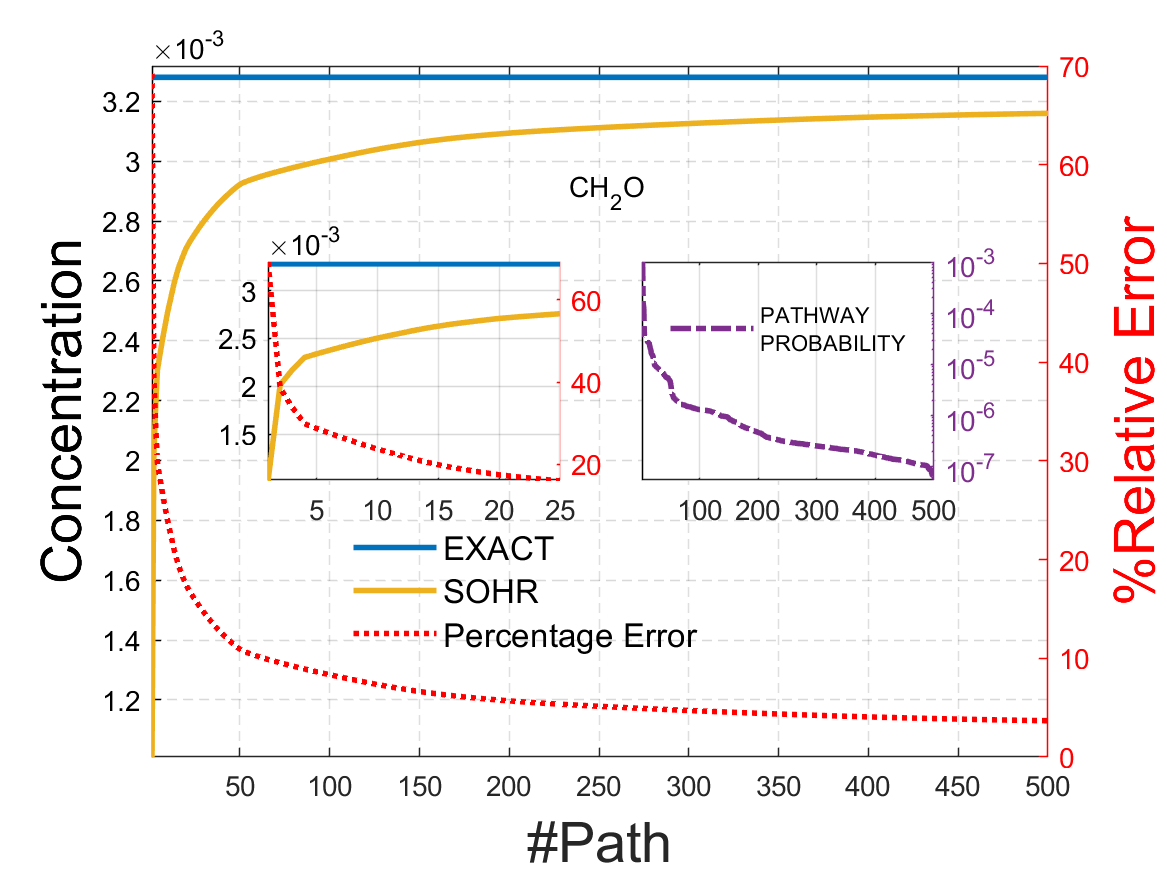
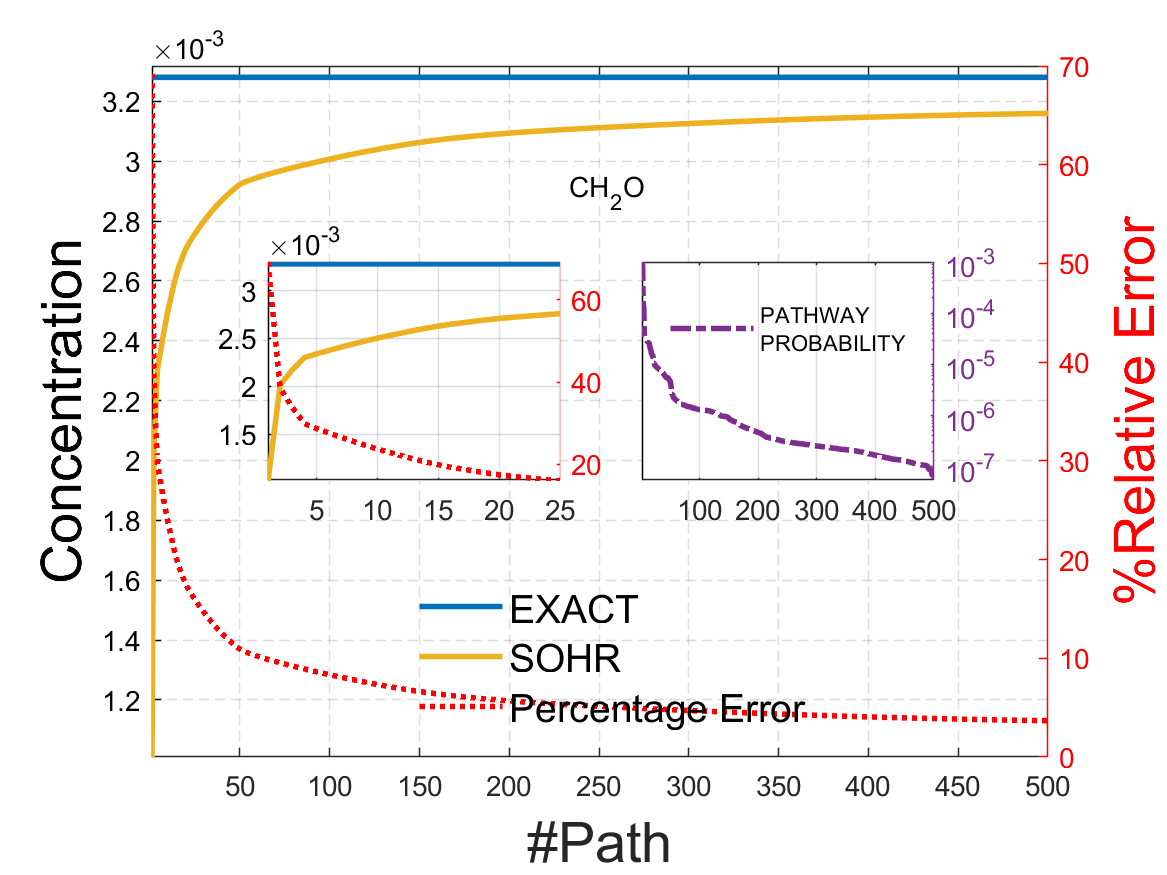
minor

Changed region(s): [[0.3085, 0.6171, 0.7095, 0.8331]]

diff --git a/theory/misc/trajectory_convergence/trajectory_convergence_1_2.m b/theory/misc/trajectory_convergence/trajectory_convergence_1_2.m
@@ -97,9 +97,9 @@ ylabel('%Relative Error', 'FontSize', 20);
 grid on;
 xlim([1, end_idx1]);
 leg_h = legend([p1; p2; p3],'EXACT','SOHR', 'Percentage Error');
-set(leg_h, 'FontSize', 12, 'Box', 'off');
+set(leg_h, 'FontSize', 14, 'Box', 'off');
 % [left, bottom, weight, height]
-set(leg_h, 'Position', [0.2, 0.275, 0.5, 0.1])
+set(leg_h, 'Position', [0.275, 0.2, 0.5, 0.1])
 
 a_x = gca;
 t_x = a_x.XLim(1) + 0.465*(a_x.XLim(2) - a_x.XLim(1));

diff --git a/theory/misc/trajectory_convergence/trajectory_convergence_2_2.m b/theory/misc/trajectory_convergence/trajectory_convergence_2_2.m
@@ -97,9 +97,9 @@ ylabel('%Relative Error', 'FontSize', 20);
 grid on;
 xlim([1, end_idx1]);
 leg_h = legend([p1; p2; p3],'EXACT','SOHR', 'Percentage Error');
-set(leg_h, 'FontSize', 12, 'Box', 'off');
+set(leg_h, 'FontSize', 14, 'Box', 'off');
 % [left, bottom, weight, height]
-set(leg_h, 'Position', [0.2, 0.275, 0.5, 0.1])
+set(leg_h, 'Position', [0.275, 0.2, 0.5, 0.1])
 
 a_x = gca;
 t_x = a_x.XLim(1) + 0.465*(a_x.XLim(2) - a_x.XLim(1));

diff --git a/theory/misc/trajectory_convergence/trajectory_convergence_3_2.m b/theory/misc/trajectory_convergence/trajectory_convergence_3_2.m
@@ -90,9 +90,9 @@ ylabel('%Relative Error', 'FontSize', 20);
 grid on;
 xlim([1, end_idx1]);
 leg_h = legend([p1; p2; p3],'EXACT','SOHR', 'Percentage Error');
-set(leg_h, 'FontSize', 12, 'Box', 'off');
+set(leg_h, 'FontSize', 14, 'Box', 'off');
 % [left, bottom, weight, height]
-set(leg_h, 'Position', [0.2, 0.275, 0.5, 0.1])
+set(leg_h, 'Position', [0.275, 0.2, 0.5, 0.1])
 
 a_x = gca;
 t_x = a_x.XLim(1) + 0.465*(a_x.XLim(2) - a_x.XLim(1));
